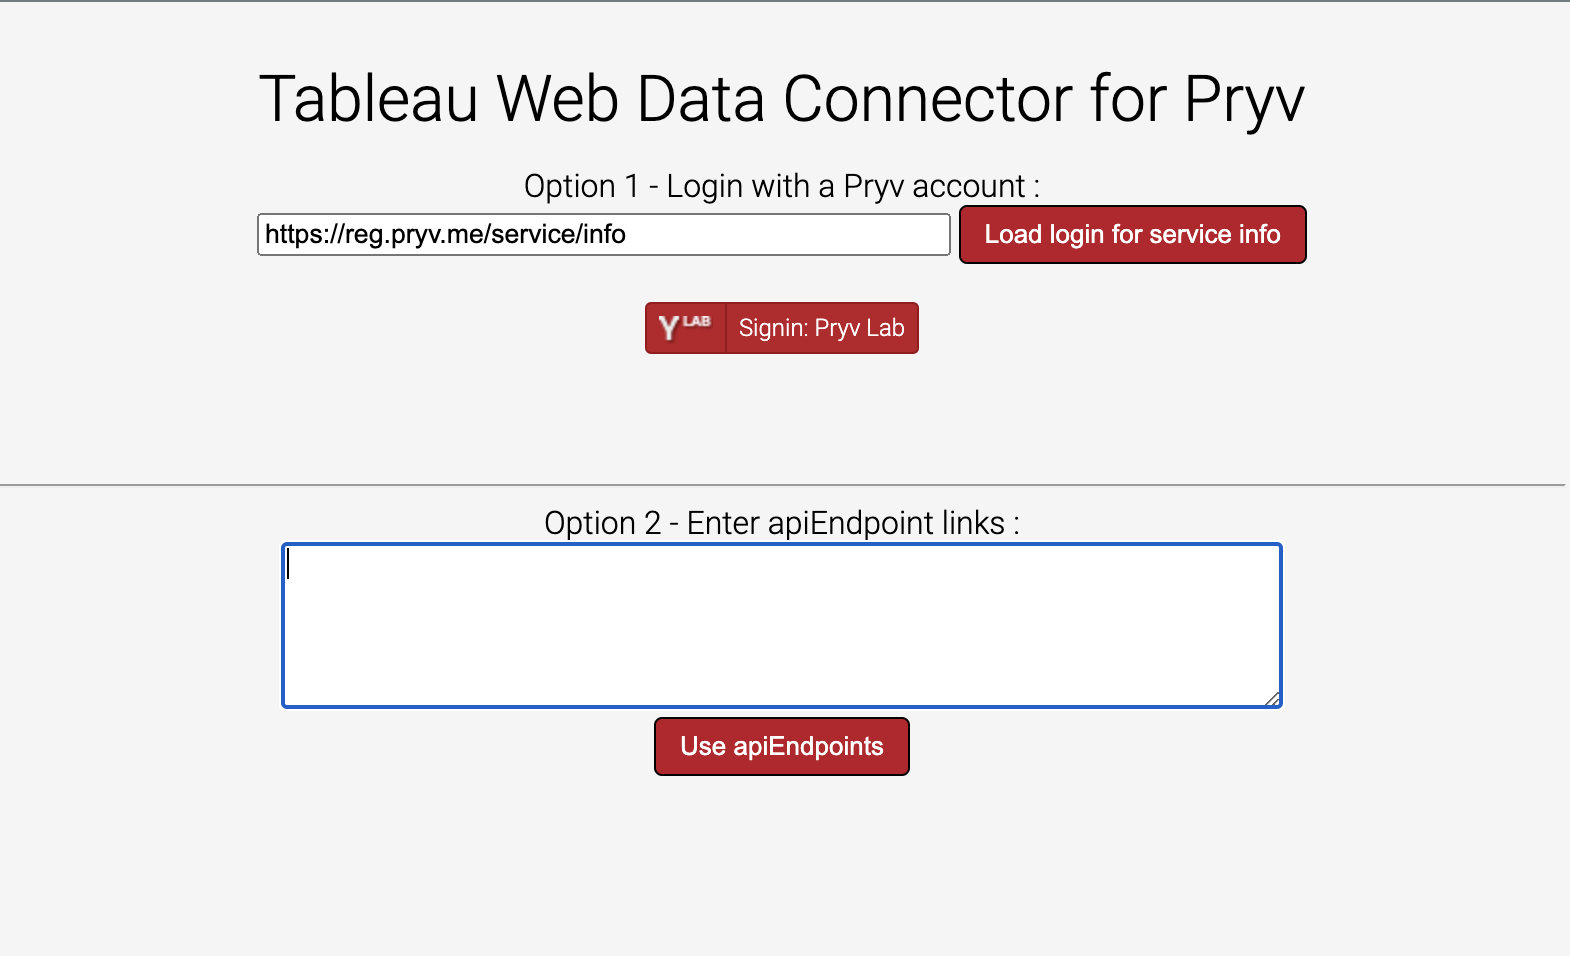
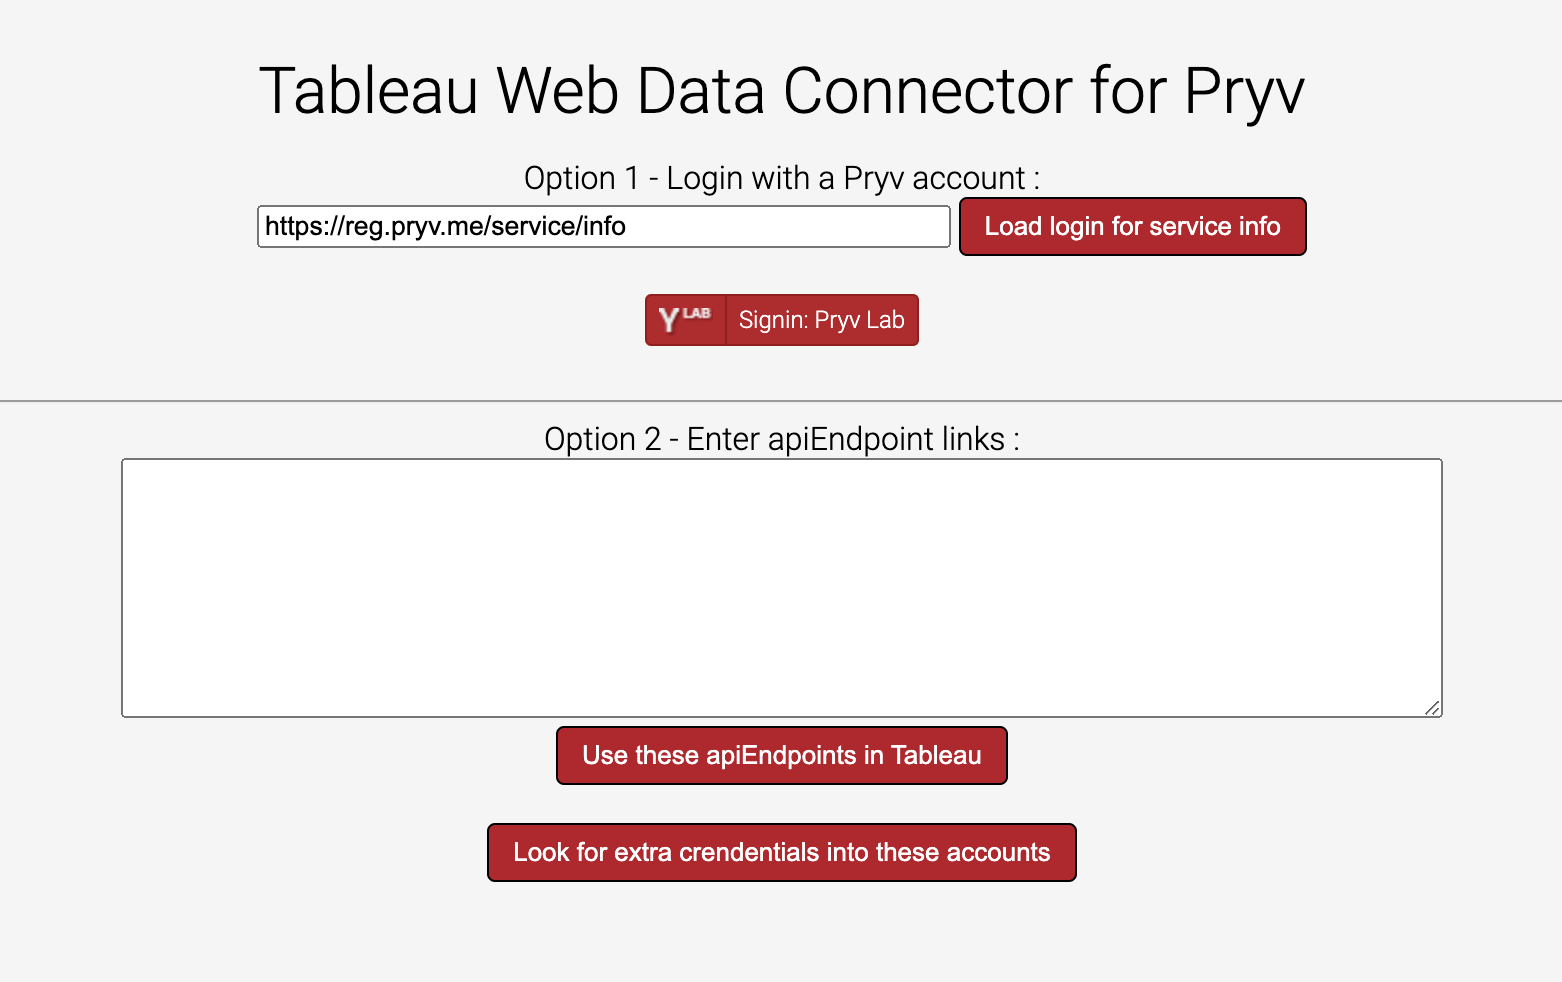
Added extra credentials loading

diff --git a/connector.js b/connector.js
@@ -12,9 +12,10 @@
     updateUI('document.ready');
     initTimeSelectors();
     $('#pryv-resetState').click(resetState);
-    $('#useApiEndpointLink').click(loadPryvApiEndpoints);
+    $('#useApiEndpointsButton').click(loadPryvApiEndpoints);
     $("#submitButton").click(validateAndSubmit);
     $("#serviceInfoLoadButton").click(pryvAuthSetup);
+    $("#loadExtraApiEndpointsButton").click(loadExtraPryvApiEndpoints);
   });
 
   // Adapt UI according to current auth state
@@ -133,16 +134,48 @@
     // Clean-up and create a coma separated list
     var apiEndpoints = apiEndpointsString.split(/[\s,\n]+/).filter(function (el) { return el.length != 0 });
 
-    // If using a campaign manager link, we need to retrieve apiEndpoints from it first.
-    // Then a second call to this function is required to actually load the apiEndpoints.
-    if (apiEndpoints.length > 0 && apiEndpoints[0].substring(0, campaignManagerUrl.length) === campaignManagerUrl) {
-      apiEndpoints = getApiEndpointsFromCampaignManager(apiEndpoints);
-      return;
+    saveApiEndpoints(apiEndpoints);
+    updateUI('loadPryvApiEndpoints');
+  }
+
+  // When "Load extra apiEnpoints is clicked"
+  // Check in the apiEnpoints referenced if we can find "credentials/pryv-api-endpoints"
+  async function loadExtraPryvApiEndpoints() {
+    console.log('loadExtraPryvApiEndpoints');
+    var textarea = $('#apiEndpointsTextArea');
+    var apiEndpointsString = textarea.val();
+    if (!apiEndpointsString) {
+      return tableau.abortWithError('Please provide a apiEndpoint link.');
     }
 
-    saveApiEndpoints(apiEndpoints);
-    updateUI();
+    // Clean-up and create a coma separated list
+    var apiEndpoints = apiEndpointsString.split(/[\s,\n]+/).filter(function (el) { return el.length != 0 });
+
+    function addLineToTextArea(line) {
+      textarea.val(textarea.val() + '\n' + line );
+    }
+
+    const queryAllCredentials = {
+      types: ['credentials/pryv-api-endpoint'],
+      limit: 10000
+    }
+
+    for (const apiEndpoint of apiEndpoints) {
+      var connection = new Pryv.Connection(apiEndpoint);
+      console.log('loadExtraPryvApiEndpoint for', apiEndpoint);
+      try {
+
+        var apiEndpoints = await connection.getEventsStreamed(queryAllCredentials, function (event) {
+          console.log('loadExtraPryvApiEndpoint event', event);
+          addLineToTextArea(event.content);
+        });
+      } catch (e) {
+        console.log('Error while loading extra apiEndpoints', e);
+      }
+    }
+
   }
+
 
 
   // Validate filtering parameters and save them for next phase (data gathering)
@@ -168,6 +201,7 @@
     tableau.connectionName = "Pryv WDC " + tableau.username;
     tableau.submit();
   }
+
 
   // ------------------------------  Connections and apiEndpoint Management ------------------------------ //
 
@@ -512,7 +546,7 @@
         id: event.id,
         streamId: event.streamId,
         type: event.type,
-        time: dateFormat(event.timeLT),
+        time: dateFormat(event.time * 1000),
         duration: event.duration
       };
       var content = event.content;
@@ -521,6 +555,7 @@
       } else {
         eventData.content = content;
       }
+      console.log('APPEND EVENT', eventData);
       tableData.push(eventData);
     }
     // Fill the Table rows with Pryv data

diff --git a/index.html b/index.html
@@ -60,15 +60,17 @@
   </div>
   <br>
   <button id="pryv-resetState">Go to api endpoint selection</button>
-  <br>
 </div>
-<br>
 <hr>
 <div id="apiEndpointsDiv">
   Option 2 - Enter apiEndpoint links :<br>
-  <textarea id="apiEndpointsTextArea" cols="60" rows="5"></textarea><br>
-  <button id="useApiEndpointLink">Use apiEndpoints</button>
+  <textarea id="apiEndpointsTextArea" cols="80" rows="8"></textarea><br>
+  <button id="useApiEndpointsButton">Use these apiEndpoints in Tableau</button>
+  <br><br>
+  <button id="loadExtraApiEndpointsButton">Look for extra crendentials into these accounts</button>
 </div>
+
+
 <div id="submitDiv">
   <table align="center">
       <td>From time : </td>

diff --git a/README.md b/README.md
@@ -30,6 +30,8 @@ _NOTE: Tableau refers either to [Tableau Desktop](https://www.tableau.com/produc
   
   * Use Pryv.io apiEndpoint(s) by pasting the link(s) in the appropriate input field and click on **Use apiEndpoints**.
 
+  * You may want to load credentials contained into events of type: `'credentials/pryv-api-endpoint'` from these accounts with "Look for extra crendentials into these accounts"
+
   ![Login](./screenshots/login.png)
 
 5. Some selectors (time range, measurements limit) appear, you can use them to filter the data to be retrieved from Pryv.IO, then click on **Get Data**.
